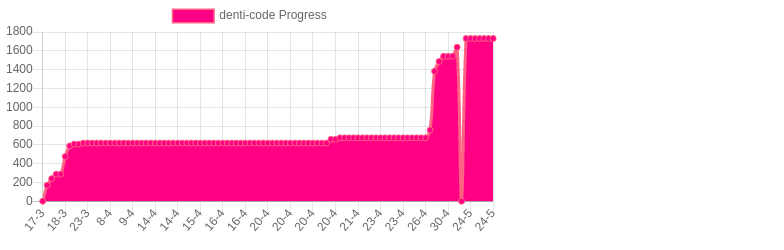
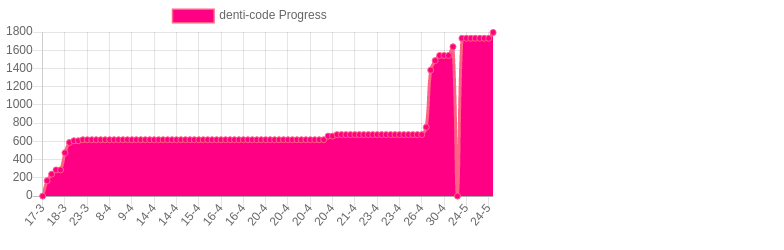
denti-code: add react code

Changed region(s): [[0.0, 0.112, 0.6429, 0.924]]

diff --git a/total.html b/total.html
@@ -9,7 +9,7 @@
         <script src="https://cdn.jsdelivr.net/npm/chart.js@2.8.0"></script>
         <script>
           var ctx = document.getElementById("total").getContext("2d");
-          const goLabelsDates = ["2021-02-27T01:37:43.112Z","2021-02-27T01:38:01.628Z","2021-03-01T13:41:18.753Z","2021-03-01T14:53:41.991Z","2021-03-01T15:08:00.851Z","2021-03-01T15:09:10.635Z","2021-03-01T15:22:55.385Z","2021-03-03T15:31:41.151Z","2021-03-05T14:02:13.446Z","2021-03-10T14:50:13.297Z","2021-03-11T01:54:03.424Z","2021-03-11T15:32:47.647Z","2021-03-11T16:01:51.191Z","2021-03-12T00:36:04.646Z","2021-03-13T00:14:58.179Z","2021-03-16T05:30:04.043Z","2021-03-17T21:17:52.181Z","2021-03-18T03:42:56.998Z","2021-03-18T03:44:29.834Z","2021-03-18T03:45:35.160Z","2021-03-18T03:45:54.668Z","2021-03-18T03:48:46.007Z","2021-03-18T05:10:54.427Z","2021-03-18T05:44:13.724Z","2021-03-18T05:56:11.032Z","2021-03-18T22:11:28.339Z","2021-03-19T11:28:55.383Z","2021-03-22T13:51:43.977Z","2021-03-23T01:52:09.452Z","2021-03-23T15:45:53.765Z","2021-03-24T01:46:02.104Z","2021-03-30T10:56:50.711Z","2021-04-01T15:03:17.764Z","2021-04-01T23:15:02.096Z","2021-04-07T19:21:55.040Z","2021-04-08T15:21:14.479Z","2021-04-09T23:17:58.037Z","2021-04-09T23:32:26.341Z","2021-04-09T23:34:42.049Z","2021-04-09T23:36:18.092Z","2021-04-10T01:45:40.218Z","2021-04-12T15:41:26.676Z","2021-04-14T02:00:41.039Z","2021-04-14T20:02:44.141Z","2021-04-14T21:14:15.821Z","2021-04-14T22:06:37.573Z","2021-04-14T22:42:14.693Z","2021-04-14T23:10:13.243Z","2021-04-14T23:22:54.824Z","2021-04-14T23:49:37.009Z","2021-04-15T02:28:51.974Z","2021-04-15T14:33:50.618Z","2021-04-15T15:09:11.104Z","2021-04-15T20:35:30.580Z","2021-04-16T00:04:33.158Z","2021-04-16T01:36:06.294Z","2021-04-16T01:53:35.992Z","2021-04-16T02:00:15.474Z","2021-04-16T16:08:40.977Z","2021-04-16T16:27:06.953Z","2021-04-16T16:59:30.526Z","2021-04-16T17:00:53.737Z","2021-04-16T23:14:36.283Z","2021-04-17T00:39:16.890Z","2021-04-17T01:11:09.986Z","2021-04-17T01:32:30.011Z","2021-04-17T01:44:22.446Z","2021-04-17T01:44:33.941Z","2021-04-17T02:35:55.774Z","2021-04-19T15:41:31.091Z","2021-04-20T15:32:32.239Z","2021-04-20T15:33:16.014Z","2021-04-20T15:36:11.438Z","2021-04-20T15:38:44.606Z","2021-04-20T15:41:50.350Z","2021-04-20T15:44:34.448Z","2021-04-20T15:46:49.295Z","2021-04-20T15:47:24.048Z","2021-04-20T15:56:22.046Z","2021-04-20T16:00:02.540Z","2021-04-20T16:01:15.511Z","2021-04-20T23:19:23.938Z","2021-04-21T00:40:54.443Z","2021-04-21T00:47:22.662Z","2021-04-21T02:01:09.006Z","2021-04-21T02:19:22.734Z","2021-04-21T15:53:36.038Z","2021-04-21T16:21:45.704Z","2021-04-21T16:26:32.790Z","2021-04-21T16:40:24.916Z","2021-04-21T16:43:40.235Z","2021-04-21T16:43:59.719Z","2021-04-21T16:44:40.304Z","2021-04-21T16:46:13.191Z","2021-04-21T16:48:41.898Z","2021-04-21T16:49:08.753Z","2021-04-21T16:50:32.397Z","2021-04-21T16:51:58.778Z","2021-04-23T00:49:32.826Z","2021-04-23T15:03:06.320Z","2021-04-23T15:04:13.039Z","2021-04-23T15:05:25.923Z","2021-04-23T15:11:04.285Z","2021-04-23T15:11:38.826Z","2021-04-23T15:12:05.618Z","2021-04-23T15:12:32.508Z","2021-04-23T15:13:17.058Z","2021-04-23T17:08:27.046Z","2021-04-23T18:02:30.357Z","2021-04-23T22:58:36.946Z","2021-04-23T23:00:26.027Z","2021-04-23T23:52:58.438Z","2021-04-24T01:12:51.525Z","2021-04-24T02:01:46.612Z","2021-04-26T12:46:47.336Z","2021-04-26T13:13:50.946Z","2021-04-26T13:16:04.473Z","2021-04-27T00:11:42.582Z","2021-04-30T03:26:37.101Z","2021-04-30T04:33:42.472Z","2021-04-30T05:15:42.646Z","2021-04-30T14:31:10.927Z","2021-05-04T01:51:49.907Z","2021-05-21T00:30:21.777Z","2021-05-24T15:07:09.579Z","2021-05-24T15:08:05.658Z","2021-05-24T15:22:20.903Z","2021-05-24T15:33:34.626Z","2021-05-24T15:46:16.101Z","2021-05-24T15:48:12.171Z","2021-05-24T15:53:54.498Z","2021-05-24T15:56:18.488Z","2021-05-28T22:50:32.914Z","2021-06-02T17:58:30.866Z","2021-07-01T05:04:25.826Z","2021-07-01T05:05:33.079Z","2021-09-03T16:56:54.023Z","2021-09-23T00:10:19.737Z","2021-09-23T00:54:30.987Z","2021-09-25T00:13:33.106Z","2021-09-25T00:56:09.874Z","2021-09-29T20:37:10.460Z","2021-09-29T20:39:45.107Z","2021-09-29T20:45:08.406Z","2021-09-29T20:45:42.995Z","2021-09-29T20:51:54.166Z","2021-09-29T21:04:45.487Z","2021-09-29T21:22:49.580Z","2021-09-29T21:23:34.860Z","2021-09-29T21:24:52.804Z","2021-09-29T21:25:12.938Z","2021-09-29T21:31:41.466Z","2021-09-29T21:32:02.856Z","2021-09-29T21:32:15.096Z","2021-09-29T21:37:01.273Z","2021-09-29T21:39:46.109Z","2021-09-29T21:40:23.862Z","2021-09-29T21:41:38.242Z","2021-09-29T21:45:36.053Z","2021-09-29T21:48:31.229Z","2021-09-29T21:49:46.414Z","2021-09-29T21:50:16.628Z","2021-09-29T21:52:23.035Z","2021-09-29T21:58:46.153Z","2021-09-29T21:59:06.075Z","2021-09-29T22:09:34.545Z","2021-09-29T22:24:59.487Z","2021-09-29T22:39:38.616Z","2021-09-29T23:07:40.178Z","2021-10-01T13:21:48.217Z","2021-10-01T14:11:47.682Z","2021-10-05T00:24:42.303Z","2021-10-05T14:36:34.233Z","2021-10-05T15:30:47.628Z","2021-10-13T14:16:32.194Z",];
+          const goLabelsDates = ["2021-02-27T01:37:43.112Z","2021-02-27T01:38:01.628Z","2021-03-01T13:41:18.753Z","2021-03-01T14:53:41.991Z","2021-03-01T15:08:00.851Z","2021-03-01T15:09:10.635Z","2021-03-01T15:22:55.385Z","2021-03-03T15:31:41.151Z","2021-03-05T14:02:13.446Z","2021-03-10T14:50:13.297Z","2021-03-11T01:54:03.424Z","2021-03-11T15:32:47.647Z","2021-03-11T16:01:51.191Z","2021-03-12T00:36:04.646Z","2021-03-13T00:14:58.179Z","2021-03-16T05:30:04.043Z","2021-03-17T21:17:52.181Z","2021-03-18T03:42:56.998Z","2021-03-18T03:44:29.834Z","2021-03-18T03:45:35.160Z","2021-03-18T03:45:54.668Z","2021-03-18T03:48:46.007Z","2021-03-18T05:10:54.427Z","2021-03-18T05:44:13.724Z","2021-03-18T05:56:11.032Z","2021-03-18T22:11:28.339Z","2021-03-19T11:28:55.383Z","2021-03-22T13:51:43.977Z","2021-03-23T01:52:09.452Z","2021-03-23T15:45:53.765Z","2021-03-24T01:46:02.104Z","2021-03-30T10:56:50.711Z","2021-04-01T15:03:17.764Z","2021-04-01T23:15:02.096Z","2021-04-07T19:21:55.040Z","2021-04-08T15:21:14.479Z","2021-04-09T23:17:58.037Z","2021-04-09T23:32:26.341Z","2021-04-09T23:34:42.049Z","2021-04-09T23:36:18.092Z","2021-04-10T01:45:40.218Z","2021-04-12T15:41:26.676Z","2021-04-14T02:00:41.039Z","2021-04-14T20:02:44.141Z","2021-04-14T21:14:15.821Z","2021-04-14T22:06:37.573Z","2021-04-14T22:42:14.693Z","2021-04-14T23:10:13.243Z","2021-04-14T23:22:54.824Z","2021-04-14T23:49:37.009Z","2021-04-15T02:28:51.974Z","2021-04-15T14:33:50.618Z","2021-04-15T15:09:11.104Z","2021-04-15T20:35:30.580Z","2021-04-16T00:04:33.158Z","2021-04-16T01:36:06.294Z","2021-04-16T01:53:35.992Z","2021-04-16T02:00:15.474Z","2021-04-16T16:08:40.977Z","2021-04-16T16:27:06.953Z","2021-04-16T16:59:30.526Z","2021-04-16T17:00:53.737Z","2021-04-16T23:14:36.283Z","2021-04-17T00:39:16.890Z","2021-04-17T01:11:09.986Z","2021-04-17T01:32:30.011Z","2021-04-17T01:44:22.446Z","2021-04-17T01:44:33.941Z","2021-04-17T02:35:55.774Z","2021-04-19T15:41:31.091Z","2021-04-20T15:32:32.239Z","2021-04-20T15:33:16.014Z","2021-04-20T15:36:11.438Z","2021-04-20T15:38:44.606Z","2021-04-20T15:41:50.350Z","2021-04-20T15:44:34.448Z","2021-04-20T15:46:49.295Z","2021-04-20T15:47:24.048Z","2021-04-20T15:56:22.046Z","2021-04-20T16:00:02.540Z","2021-04-20T16:01:15.511Z","2021-04-20T23:19:23.938Z","2021-04-21T00:40:54.443Z","2021-04-21T00:47:22.662Z","2021-04-21T02:01:09.006Z","2021-04-21T02:19:22.734Z","2021-04-21T15:53:36.038Z","2021-04-21T16:21:45.704Z","2021-04-21T16:26:32.790Z","2021-04-21T16:40:24.916Z","2021-04-21T16:43:40.235Z","2021-04-21T16:43:59.719Z","2021-04-21T16:44:40.304Z","2021-04-21T16:46:13.191Z","2021-04-21T16:48:41.898Z","2021-04-21T16:49:08.753Z","2021-04-21T16:50:32.397Z","2021-04-21T16:51:58.778Z","2021-04-23T00:49:32.826Z","2021-04-23T15:03:06.320Z","2021-04-23T15:04:13.039Z","2021-04-23T15:05:25.923Z","2021-04-23T15:11:04.285Z","2021-04-23T15:11:38.826Z","2021-04-23T15:12:05.618Z","2021-04-23T15:12:32.508Z","2021-04-23T15:13:17.058Z","2021-04-23T17:08:27.046Z","2021-04-23T18:02:30.357Z","2021-04-23T22:58:36.946Z","2021-04-23T23:00:26.027Z","2021-04-23T23:52:58.438Z","2021-04-24T01:12:51.525Z","2021-04-24T02:01:46.612Z","2021-04-26T12:46:47.336Z","2021-04-26T13:13:50.946Z","2021-04-26T13:16:04.473Z","2021-04-27T00:11:42.582Z","2021-04-30T03:26:37.101Z","2021-04-30T04:33:42.472Z","2021-04-30T05:15:42.646Z","2021-04-30T14:31:10.927Z","2021-05-04T01:51:49.907Z","2021-05-21T00:30:21.777Z","2021-05-24T15:07:09.579Z","2021-05-24T15:08:05.658Z","2021-05-24T15:22:20.903Z","2021-05-24T15:33:34.626Z","2021-05-24T15:46:16.101Z","2021-05-24T15:48:12.171Z","2021-05-24T15:53:54.498Z","2021-05-24T15:56:18.488Z","2021-05-28T22:50:32.914Z","2021-06-02T17:58:30.866Z","2021-07-01T05:04:25.826Z","2021-07-01T05:05:33.079Z","2021-09-03T16:56:54.023Z","2021-09-23T00:10:19.737Z","2021-09-23T00:54:30.987Z","2021-09-25T00:13:33.106Z","2021-09-25T00:56:09.874Z","2021-09-29T20:37:10.460Z","2021-09-29T20:39:45.107Z","2021-09-29T20:45:08.406Z","2021-09-29T20:45:42.995Z","2021-09-29T20:51:54.166Z","2021-09-29T21:04:45.487Z","2021-09-29T21:22:49.580Z","2021-09-29T21:23:34.860Z","2021-09-29T21:24:52.804Z","2021-09-29T21:25:12.938Z","2021-09-29T21:31:41.466Z","2021-09-29T21:32:02.856Z","2021-09-29T21:32:15.096Z","2021-09-29T21:37:01.273Z","2021-09-29T21:39:46.109Z","2021-09-29T21:40:23.862Z","2021-09-29T21:41:38.242Z","2021-09-29T21:45:36.053Z","2021-09-29T21:48:31.229Z","2021-09-29T21:49:46.414Z","2021-09-29T21:50:16.628Z","2021-09-29T21:52:23.035Z","2021-09-29T21:58:46.153Z","2021-09-29T21:59:06.075Z","2021-09-29T22:09:34.545Z","2021-09-29T22:24:59.487Z","2021-09-29T22:39:38.616Z","2021-09-29T23:07:40.178Z","2021-10-01T13:21:48.217Z","2021-10-01T14:11:47.682Z","2021-10-05T00:24:42.303Z","2021-10-05T14:36:34.233Z","2021-10-05T15:30:47.628Z","2021-10-13T14:16:32.194Z","2021-10-14T20:31:14.540Z",];
           var chart = new Chart(ctx, {
             type: 'line',
             data: {
@@ -18,7 +18,7 @@
                 label: 'total Progress',
                 backgroundColor: 'rgb(255, 0, 132)',
                 borderColor: 'rgb(255, 99, 132)',
-                data: [7975,7975,8307,8526,8526,8527,8573,9171,9358,9751,9908,10232,10231,10643,10911,11353,12576,12666,0,0,169,12835,12906,12953,12953,13141,13254,13354,13406,13417,13568,13708,13845,14886,15140,15267,15766,15777,15777,15777,16211,16345,17062,17247,17324,17464,17697,17849,17916,18002,18002,18202,18292,18515,18590,18744,18837,18876,19030,19086,19114,19143,19378,19465,19607,19714,19782,19782,19791,20220,20257,20257,20257,20257,20257,20257,20257,20257,20257,20257,20257,21179,21238,21279,21319,21319,21430,21506,21543,65995,0,44452,44452,44452,20233,20233,1629,23172,23326,23693,23693,23693,23693,23693,23693,23693,23693,23693,23693,23693,23693,23905,24023,24262,24275,24376,24376,24452,25078,25182,25238,25232,25233,25334,23696,25427,25453,25466,25491,11565,5707,5707,4421,4535,4535,3678,3678,3678,5861,5318,5422,5473,12667,12667,12667,12667,12667,12667,12667,12667,12667,12667,12667,12667,12667,12667,12667,12667,12667,12667,12658,12658,12657,12657,12657,12657,12683,12736,12779,12888,2619,2775,9772,9922,10674,]
+                data: [7975,7975,8307,8526,8526,8527,8573,9171,9358,9751,9908,10232,10231,10643,10911,11353,12576,12666,0,0,169,12835,12906,12953,12953,13141,13254,13354,13406,13417,13568,13708,13845,14886,15140,15267,15766,15777,15777,15777,16211,16345,17062,17247,17324,17464,17697,17849,17916,18002,18002,18202,18292,18515,18590,18744,18837,18876,19030,19086,19114,19143,19378,19465,19607,19714,19782,19782,19791,20220,20257,20257,20257,20257,20257,20257,20257,20257,20257,20257,20257,21179,21238,21279,21319,21319,21430,21506,21543,65995,0,44452,44452,44452,20233,20233,1629,23172,23326,23693,23693,23693,23693,23693,23693,23693,23693,23693,23693,23693,23693,23905,24023,24262,24275,24376,24376,24452,25078,25182,25238,25232,25233,25334,23696,25427,25453,25466,25491,11565,5707,5707,4421,4535,4535,3678,3678,3678,5861,5318,5422,5473,12667,12667,12667,12667,12667,12667,12667,12667,12667,12667,12667,12667,12667,12667,12667,12667,12667,12667,12658,12658,12657,12657,12657,12657,12683,12736,12779,12888,2619,2775,9772,9922,10674,1795,]
               }]
             },
           });

diff --git a/denti-code.html b/denti-code.html
@@ -9,7 +9,7 @@
         <script src="https://cdn.jsdelivr.net/npm/chart.js@2.8.0"></script>
         <script>
           var ctx = document.getElementById("denti-code").getContext("2d");
-          const goLabelsDates = ["2021-03-18T03:42:56.996Z","2021-03-18T03:48:46.006Z","2021-03-18T05:10:54.426Z","2021-03-18T05:44:13.723Z","2021-03-18T05:56:11.031Z","2021-03-18T22:11:28.338Z","2021-03-19T11:28:55.381Z","2021-03-22T13:51:43.975Z","2021-03-23T01:52:09.450Z","2021-03-23T15:45:53.764Z","2021-03-24T01:46:02.102Z","2021-03-30T10:56:50.709Z","2021-04-01T15:03:17.762Z","2021-04-01T23:15:02.094Z","2021-04-07T19:21:55.037Z","2021-04-08T15:21:14.477Z","2021-04-09T23:17:58.034Z","2021-04-09T23:32:26.338Z","2021-04-09T23:34:42.046Z","2021-04-09T23:36:18.090Z","2021-04-10T01:45:40.216Z","2021-04-12T15:41:26.675Z","2021-04-14T02:00:41.038Z","2021-04-14T20:02:44.139Z","2021-04-14T21:14:15.820Z","2021-04-14T22:06:37.572Z","2021-04-14T22:42:14.692Z","2021-04-14T23:10:13.242Z","2021-04-14T23:22:54.823Z","2021-04-14T23:49:37.008Z","2021-04-15T02:28:51.973Z","2021-04-15T14:33:50.618Z","2021-04-15T15:09:11.101Z","2021-04-15T20:35:30.578Z","2021-04-16T00:04:33.156Z","2021-04-16T01:36:06.292Z","2021-04-16T01:53:35.990Z","2021-04-16T02:00:15.472Z","2021-04-16T16:08:40.974Z","2021-04-16T16:27:06.951Z","2021-04-16T16:59:30.523Z","2021-04-16T17:00:53.732Z","2021-04-16T23:14:36.281Z","2021-04-17T00:39:16.887Z","2021-04-17T01:11:09.984Z","2021-04-17T01:32:30.007Z","2021-04-17T01:44:22.441Z","2021-04-17T01:44:33.939Z","2021-04-17T02:35:55.772Z","2021-04-19T15:41:31.089Z","2021-04-20T15:32:32.237Z","2021-04-20T15:33:16.012Z","2021-04-20T15:36:11.437Z","2021-04-20T15:38:44.604Z","2021-04-20T15:41:50.349Z","2021-04-20T15:44:34.447Z","2021-04-20T15:46:49.293Z","2021-04-20T15:47:24.046Z","2021-04-20T15:56:22.045Z","2021-04-20T16:00:02.538Z","2021-04-20T16:01:15.510Z","2021-04-20T23:19:23.936Z","2021-04-21T00:40:54.441Z","2021-04-21T00:47:22.661Z","2021-04-21T02:01:09.004Z","2021-04-21T02:19:22.733Z","2021-04-21T15:53:36.036Z","2021-04-21T16:21:45.702Z","2021-04-21T16:26:32.788Z","2021-04-21T16:40:24.915Z","2021-04-21T16:51:58.776Z","2021-04-23T00:49:32.825Z","2021-04-23T15:03:06.327Z","2021-04-23T15:04:13.043Z","2021-04-23T15:05:25.920Z","2021-04-23T15:13:17.062Z","2021-04-23T17:08:27.042Z","2021-04-23T18:02:30.351Z","2021-04-23T22:58:36.942Z","2021-04-23T23:00:26.024Z","2021-04-23T23:52:58.435Z","2021-04-24T01:12:51.523Z","2021-04-24T02:01:46.608Z","2021-04-26T12:46:47.335Z","2021-04-26T13:13:50.942Z","2021-04-26T13:16:04.469Z","2021-04-27T00:11:42.578Z","2021-04-30T03:26:37.095Z","2021-04-30T04:33:42.471Z","2021-04-30T05:15:42.643Z","2021-04-30T14:31:10.924Z","2021-05-04T01:51:49.904Z","2021-05-21T00:30:21.766Z","2021-05-24T15:07:09.569Z","2021-05-24T15:08:05.654Z","2021-05-24T15:22:20.898Z","2021-05-24T15:33:34.622Z","2021-05-24T15:46:16.098Z","2021-05-24T15:48:12.169Z","2021-05-24T15:53:54.497Z","2021-05-24T15:56:18.483Z",];
+          const goLabelsDates = ["2021-03-18T03:42:56.996Z","2021-03-18T03:48:46.006Z","2021-03-18T05:10:54.426Z","2021-03-18T05:44:13.723Z","2021-03-18T05:56:11.031Z","2021-03-18T22:11:28.338Z","2021-03-19T11:28:55.381Z","2021-03-22T13:51:43.975Z","2021-03-23T01:52:09.450Z","2021-03-23T15:45:53.764Z","2021-03-24T01:46:02.102Z","2021-03-30T10:56:50.709Z","2021-04-01T15:03:17.762Z","2021-04-01T23:15:02.094Z","2021-04-07T19:21:55.037Z","2021-04-08T15:21:14.477Z","2021-04-09T23:17:58.034Z","2021-04-09T23:32:26.338Z","2021-04-09T23:34:42.046Z","2021-04-09T23:36:18.090Z","2021-04-10T01:45:40.216Z","2021-04-12T15:41:26.675Z","2021-04-14T02:00:41.038Z","2021-04-14T20:02:44.139Z","2021-04-14T21:14:15.820Z","2021-04-14T22:06:37.572Z","2021-04-14T22:42:14.692Z","2021-04-14T23:10:13.242Z","2021-04-14T23:22:54.823Z","2021-04-14T23:49:37.008Z","2021-04-15T02:28:51.973Z","2021-04-15T14:33:50.618Z","2021-04-15T15:09:11.101Z","2021-04-15T20:35:30.578Z","2021-04-16T00:04:33.156Z","2021-04-16T01:36:06.292Z","2021-04-16T01:53:35.990Z","2021-04-16T02:00:15.472Z","2021-04-16T16:08:40.974Z","2021-04-16T16:27:06.951Z","2021-04-16T16:59:30.523Z","2021-04-16T17:00:53.732Z","2021-04-16T23:14:36.281Z","2021-04-17T00:39:16.887Z","2021-04-17T01:11:09.984Z","2021-04-17T01:32:30.007Z","2021-04-17T01:44:22.441Z","2021-04-17T01:44:33.939Z","2021-04-17T02:35:55.772Z","2021-04-19T15:41:31.089Z","2021-04-20T15:32:32.237Z","2021-04-20T15:33:16.012Z","2021-04-20T15:36:11.437Z","2021-04-20T15:38:44.604Z","2021-04-20T15:41:50.349Z","2021-04-20T15:44:34.447Z","2021-04-20T15:46:49.293Z","2021-04-20T15:47:24.046Z","2021-04-20T15:56:22.045Z","2021-04-20T16:00:02.538Z","2021-04-20T16:01:15.510Z","2021-04-20T23:19:23.936Z","2021-04-21T00:40:54.441Z","2021-04-21T00:47:22.661Z","2021-04-21T02:01:09.004Z","2021-04-21T02:19:22.733Z","2021-04-21T15:53:36.036Z","2021-04-21T16:21:45.702Z","2021-04-21T16:26:32.788Z","2021-04-21T16:40:24.915Z","2021-04-21T16:51:58.776Z","2021-04-23T00:49:32.825Z","2021-04-23T15:03:06.327Z","2021-04-23T15:04:13.043Z","2021-04-23T15:05:25.920Z","2021-04-23T15:13:17.062Z","2021-04-23T17:08:27.042Z","2021-04-23T18:02:30.351Z","2021-04-23T22:58:36.942Z","2021-04-23T23:00:26.024Z","2021-04-23T23:52:58.435Z","2021-04-24T01:12:51.523Z","2021-04-24T02:01:46.608Z","2021-04-26T12:46:47.335Z","2021-04-26T13:13:50.942Z","2021-04-26T13:16:04.469Z","2021-04-27T00:11:42.578Z","2021-04-30T03:26:37.095Z","2021-04-30T04:33:42.471Z","2021-04-30T05:15:42.643Z","2021-04-30T14:31:10.924Z","2021-05-04T01:51:49.904Z","2021-05-21T00:30:21.766Z","2021-05-24T15:07:09.569Z","2021-05-24T15:08:05.654Z","2021-05-24T15:22:20.898Z","2021-05-24T15:33:34.622Z","2021-05-24T15:46:16.098Z","2021-05-24T15:48:12.169Z","2021-05-24T15:53:54.497Z","2021-05-24T15:56:18.483Z","2021-10-14T20:31:14.535Z",];
           var chart = new Chart(ctx, {
             type: 'line',
             data: {
@@ -18,7 +18,7 @@
                 label: 'denti-code Progress',
                 backgroundColor: 'rgb(255, 0, 132)',
                 borderColor: 'rgb(255, 99, 132)',
-                data: [0,169,240,287,287,475,588,607,607,618,618,618,618,618,618,618,618,618,618,618,618,618,618,618,618,618,618,618,618,618,618,618,618,618,618,618,618,618,618,618,618,618,618,618,618,618,618,618,618,618,618,618,618,618,618,618,618,618,618,618,618,618,618,618,658,658,674,674,674,674,674,674,674,674,674,674,674,674,674,674,674,674,674,674,674,674,756,1382,1486,1542,1542,1542,1638,0,1731,1731,1731,1731,1731,1731,1731,]
+                data: [0,169,240,287,287,475,588,607,607,618,618,618,618,618,618,618,618,618,618,618,618,618,618,618,618,618,618,618,618,618,618,618,618,618,618,618,618,618,618,618,618,618,618,618,618,618,618,618,618,618,618,618,618,618,618,618,618,618,618,618,618,618,618,618,658,658,674,674,674,674,674,674,674,674,674,674,674,674,674,674,674,674,674,674,674,674,756,1382,1486,1542,1542,1542,1638,0,1731,1731,1731,1731,1731,1731,1731,1795,]
               }]
             },
           });

diff --git a/config.js b/config.js
@@ -8,15 +8,15 @@ const configLn = [
     src: ['../../react-native/reactnDoctor1/components', '../../react-native/reactnDoctor1/screens', '../../react-native/reactnDoctor1/navigation', '../../react-native/reactnDoctor1/hooks'],
     goal: 2000
   }, */
-  /*   {
-      ln: 'denti-code',
-      title: "JavaScript Denti",
-      subjects: [
-        "react,", "hooks"
-      ],
-      src: ['../../node/denti-code/src', '../../node/denti-code-server'],
-      goal: 2000
-    }, */
+  {
+    ln: 'denti-code',
+    title: "JavaScript Denti",
+    subjects: [
+      "react,", "hooks"
+    ],
+    src: ['../../node/denti-code/src', '../../node/denti-code-server'],
+    goal: 2000
+  },
   /* {
     ln: 'shopping-cart',
     title: "React Shopping Cart",
@@ -26,14 +26,14 @@ const configLn = [
     src: ['../../react/react-shopping-cart'],
     goal: 2000
   }, */
-  {
+  /* {
     ln: 'js',
     title: "JavaScript",
     subjects: [
       "react, ", "node, sequelize, orm, mongodb."
     ],
     goal: 7000
-  },
+  }, */
   /* {
     ln: 'react',
     title: "React",
@@ -74,12 +74,12 @@ const configLn = [
     subjects: [],
     goal: 500
   }, */
-  {
-   ln: 'go',
-   title: "go",
-   subjects: ["structs", "loops"],
-   goal: 3000
- },
+  /*  {
+    ln: 'go',
+    title: "go",
+    subjects: ["structs", "loops"],
+    goal: 3000
+  }, */
   /* {
     ln: 'python',
     title: "python",

diff --git a/Readme.md b/Readme.md
@@ -1,12 +1,11 @@
 # All count
 |Language|Goal|Lines%|%|%|%|Subjects|
 |----------|-------|-------|--------|--------|--------|--------|
-|js|10000|7344|73|![js](https://raw.githubusercontent.com/kapit4n/l-10000-dev/master/js.png)|react, , node, sequelize, orm, mongodb.|aws sdk, enzyme, node google cloud, node rest, node tips and tricks|
-|go|10000|3330|33|![go](https://raw.githubusercontent.com/kapit4n/l-10000-dev/master/go.png)|structs, loops|consumingRESTfulAPI, data structures, design pattern, go slices, image file url, queue, mux|
-|TOTAL|10674|53.370%|
+|denti-code|2000|1795|90|![denti-code](https://raw.githubusercontent.com/kapit4n/l-10000-dev/master/denti-code.png)|react,, hooks|App, App, App, Nav, logo, reportWebVitals, requeriments, setupTests, Readme, app, breadcrumb, www, client files, doctors, records, users, 20210323105958 create user, 20210427012229 create doctor, 20210428201240 create record, 20210430033210 create client file, clientfile, doctor, record, user, client files, clients, doctors, records, users, 20210323105420 demo user, node, index mount, index shallow, main, record popup, main, main, main|
+|TOTAL|1795|17.950%|
 10/02(0)
 
-10/03(10674)
+10/03(1795)
 
 
   # run it
@@ -29,4 +28,4 @@
   * Angular, React, Vue
   * Spring, Play
   * Scala, Java
-  , 2021-10-13T14:16:32.194Z
+  , 2021-10-14T20:31:14.540Z
